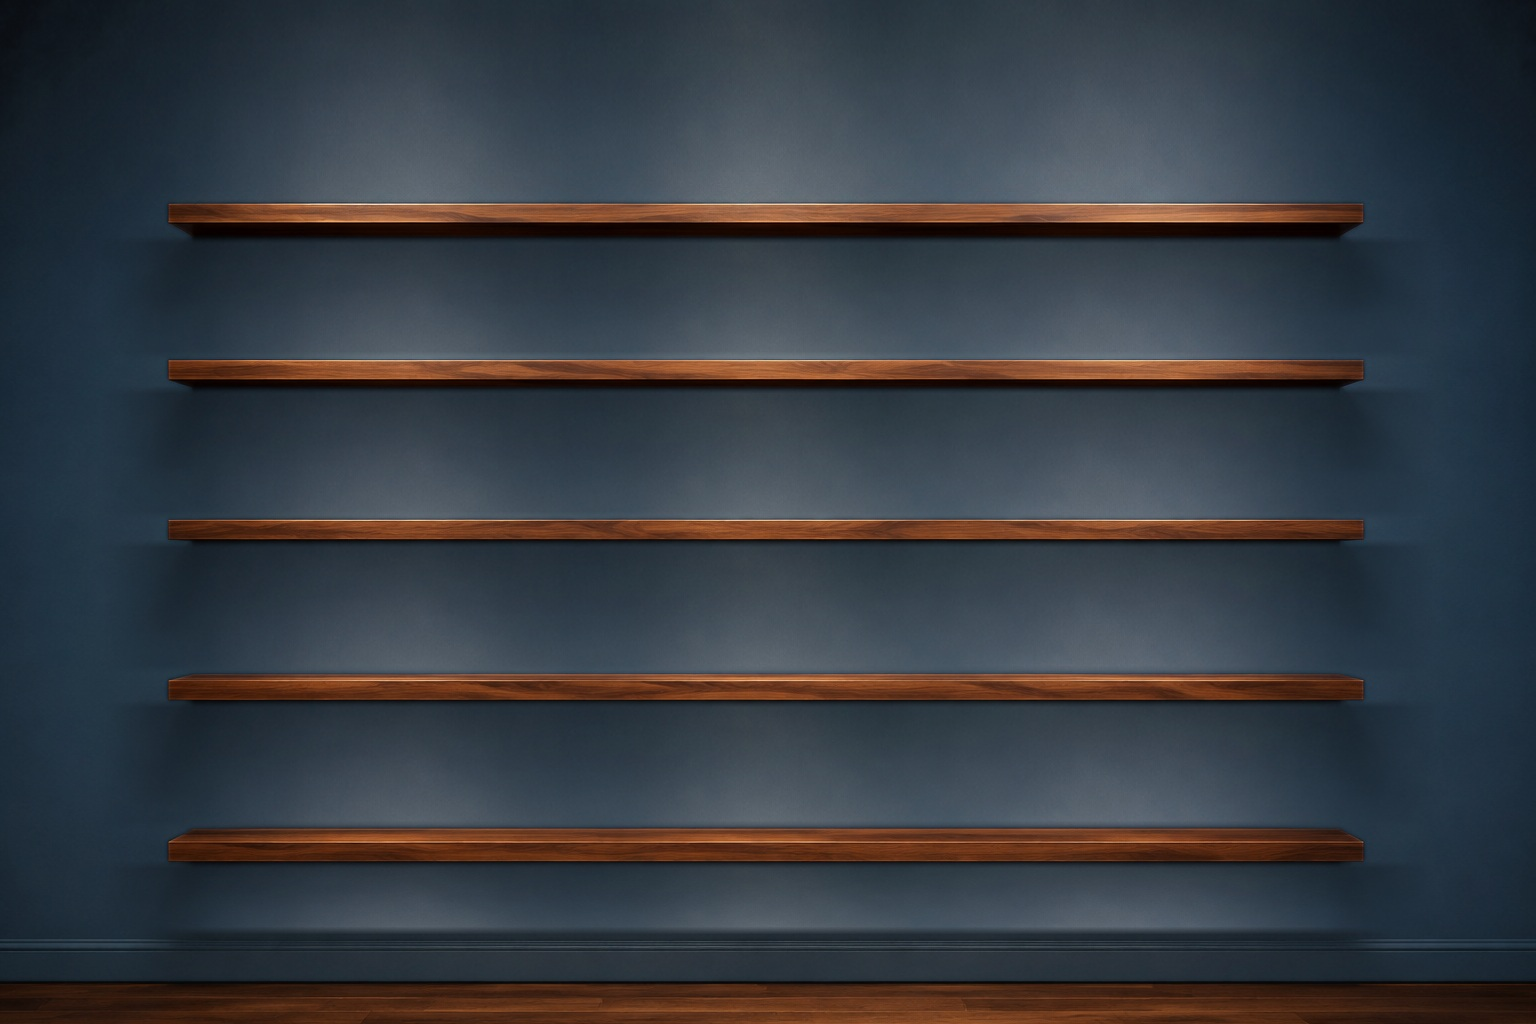
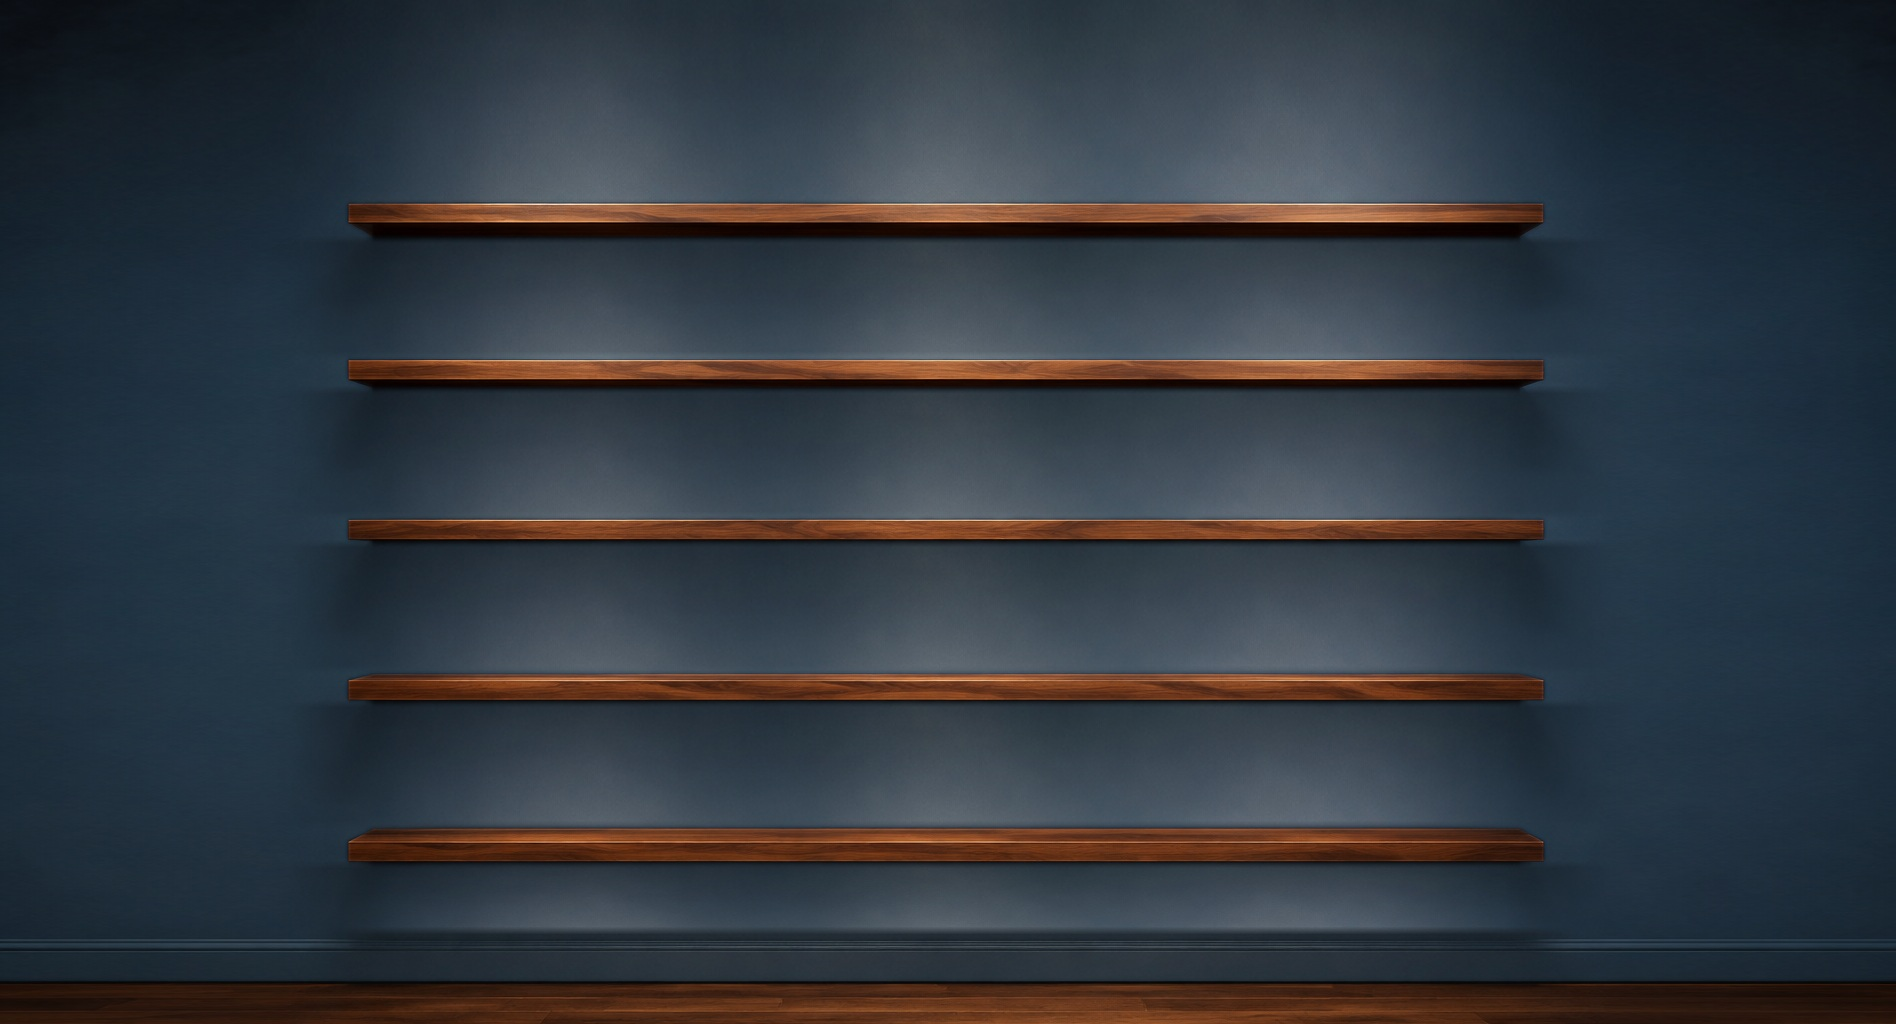
wall page: the floor stays, the sides give way
Her call. The picture is cropped to the window's shape by its ENDS, never its
foot: the ends of the wall are bare and the floor is not. tools/wall.py now adds
180 units of the wall's own plain surface at each end for the window to take,
so the floor shows at every window shape measured -- 1440x900, 1280x800,
1512x982, 1920x1080, 1280x1024.

Everything measured off the picture moves right by that padding.

Claude-Session: https://claude.ai/code/session_01YRJXk3Jc77PyvXnAuQwEma

diff --git a/index-wall.html b/index-wall.html
@@ -148,7 +148,7 @@
      needs more, gets it, and the surplus is cropped off the FOOT -- which is
      floor, and the only part of the picture nothing stands on. */
   #frame{ position:relative; overflow:hidden; flex:none;
-    --h: max(100vh, calc(100vw * 0.666667));
+    --h: max(100vh, calc(100vw * 0.540084));
     height:100vh; width:100vw;
     transition:width .78s cubic-bezier(.42,.02,.16,1); }
   /* Sizes here are fractions of the case's own height, so the lettering keeps its
@@ -159,8 +159,8 @@
      That is what lets the frame widen on a zoom without the photograph stretching
      with it -- unzoomed the two are exactly the same width, so nothing moves. */
   #case{ position:absolute; top:0; bottom:auto; height:var(--h);
-    left:50%; width:calc(var(--h) / 0.666667);
-    margin-left:calc(var(--h) / 0.666667 / -2);
+    left:50%; width:calc(var(--h) / 0.540084);
+    margin-left:calc(var(--h) / 0.540084 / -2);
     transform-origin:50% 50%;
     transition:transform .78s cubic-bezier(.42,.02,.16,1); }
   #case > img.wood{ width:100%; height:100%; display:block; }
@@ -323,12 +323,12 @@
   // percentages, which had to be retyped by hand every time the picture changed.
   // ---------------------------------------------------------------------------
   var GEO = {
-    W:1536, H:1024,
-    interior:{ left:169, right:1362 },     // the run of the boards, end to end
+    W:1896, H:1024,
+    interior:{ left:349, right:1542 },     // the run of the boards, end to end
     // The brass is laid on, not photographed in. sagne is her own blank plate with
     // the name engraved over it, so its size is a number rather than a picture.
-    oval:{ x:724, y:34, w:88, h:48 },
-    disc:{ cx:768, cy:897, d:44 },
+    oval:{ x:904, y:34, w:88, h:48 },
+    disc:{ cx:948, cy:897, d:44 },
     plateH:21, plateFS:13,
     card:{ w:66, h:96 },
     stand:9.4,

diff --git a/tools/wall.py b/tools/wall.py
@@ -68,6 +68,21 @@ def match_cabinet(a, cabinet):
     matched = np.clip((a-wm)/np.maximum(ws,1e-6)*cs + cm, 0, 255)
     return np.clip(a + (matched-a)*m[:,:,None], 0, 255)
 
+def widen(a, pad=180):
+    """The desktop picture is cropped to the WINDOW's shape by its sides, never its
+    foot -- the ends of the wall are bare and the floor is not. So give it more of
+    its own plain wall at each end for the window to take."""
+    H,W,_ = a.shape
+    def stretch(block, out_w, flip):
+        src = block[:, ::-1] if flip else block
+        xs = np.linspace(0, src.shape[1]-1, out_w)
+        i0=np.floor(xs).astype(int); i1=np.clip(i0+1,0,src.shape[1]-1); f=(xs-i0)[None,:,None]
+        g = src[:,i0]*(1-f) + src[:,i1]*f
+        return g[:, ::-1] if flip else g
+    left  = stretch(a[:, :110], 110+pad, True)
+    right = stretch(a[:, -110:], 110+pad, False)
+    return np.concatenate([left, a[:, 110:-110], right], axis=1)
+
 def narrow(a, board_l, board_r, margin, keep, feather=26):
     """Her idea for phones: shorten the shelves.  The slice comes out of the
     MIDDLE, so every board keeps both of its real ends and the wall its corners."""
@@ -103,7 +118,9 @@ if __name__ == '__main__':
     B = [[t+40, b+40] for t, b in SRC_BOARDS]
     a = clean_bays(a, B, SKIRTING+40)
     a = match_cabinet(a, cabinet)
-    save(a, 'wall-desktop.jpg');  print('   desktop boards:', B)
+    PAD = 180
+    save(widen(a, PAD), 'wall-desktop.jpg')
+    print('   desktop boards:', B, ' everything shifted right by', PAD)
 
     # ---- phone: shelves shortened from the middle, bays closed up --------------
     p, pb = shorten(narrow(a, 169, 1362, 25, 380), B, 936, 191, 121, 728)
